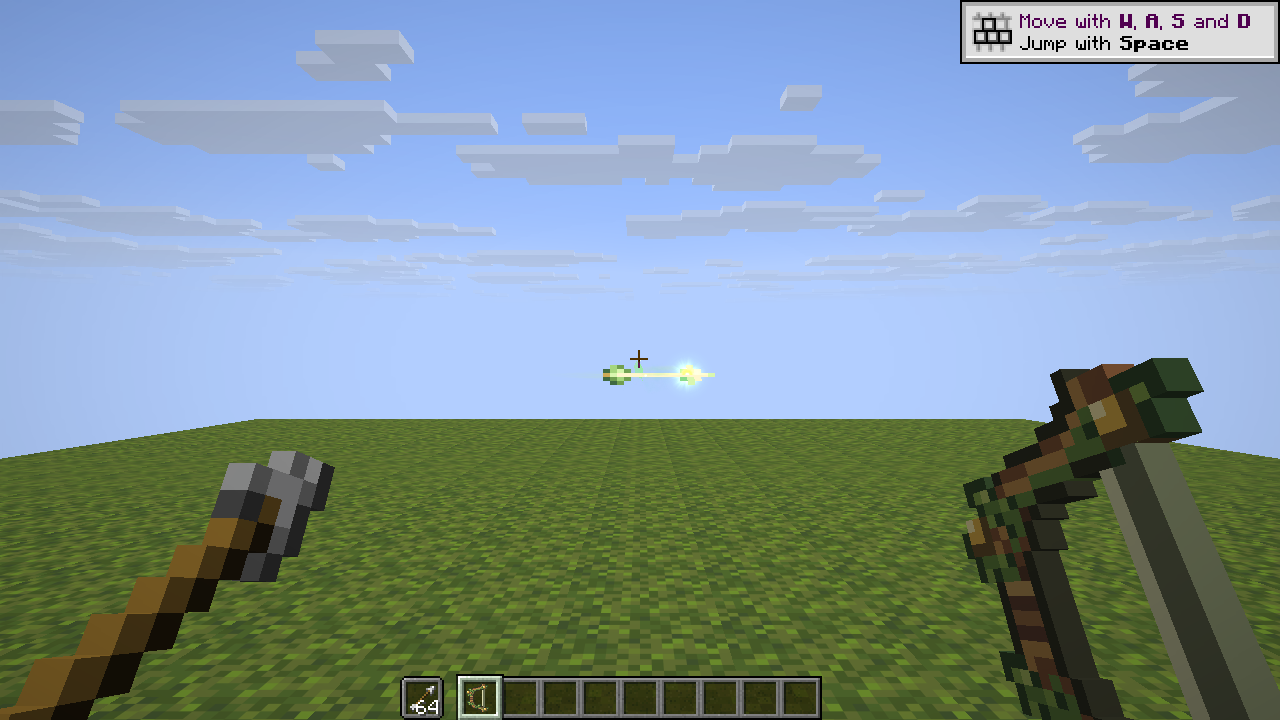
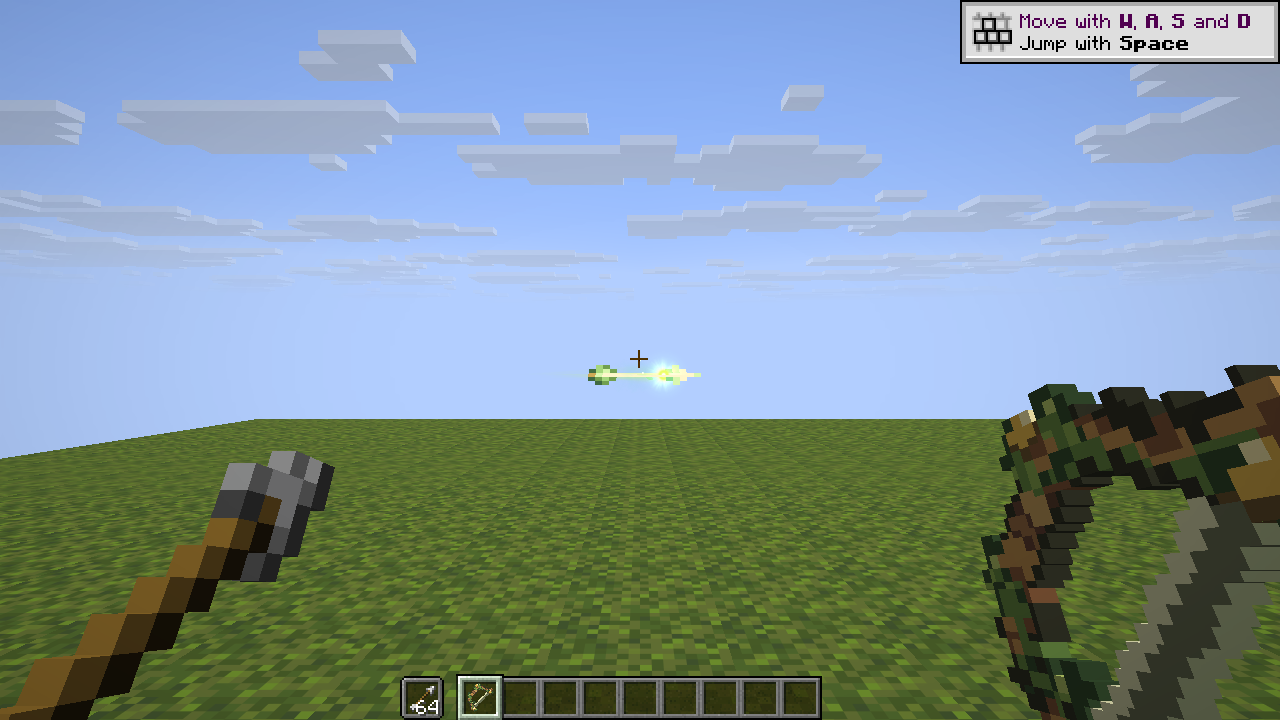
Fix Nature's Force bow alignment and charged arrow visuals
按试玩反馈延长弓臂并对齐原版持弓方向；前三阶保留对应箭的原版外观，仅第四阶换为自然之力纹理。第四阶禁用原版暴击飞行粒子，保留生命元素拖尾与既有伤害。已通过69项单元、10项世界、左右手16项实际客户端检查，并更新实机截图。

Changed region(s): [[0.75, 0.4889, 1.0, 1.0], [0.4375, 0.4889, 0.5625, 0.55], [0.3438, 0.9472, 0.4062, 0.9778]]

diff --git a/src/main/java/dev/logos/dimension/client/NaturesForceView.java b/src/main/java/dev/logos/dimension/client/NaturesForceView.java
@@ -19,8 +19,9 @@ import net.minecraft.world.phys.Vec3;
 
 /** 普通实际客户端：持弓、四阶蓄力贴图、同步箭纹理和 Logos 生命拖尾。 */
 @LDLRegisterClient(name = "natures_force", group = "natures_force", registry = UIScenario.REGISTRY, environment = RegistrationEnvironment.DEV_ONLY)
-public final class NaturesForceView implements UIScenario {
+public class NaturesForceView implements UIScenario {
     private int arrowId;
+    protected InteractionHand hand() { return InteractionHand.MAIN_HAND; }
     @Override public void configure(ScenarioOptions o) { o.tags("natures_force").defaultTimeoutMs(60000).scenarioTimeoutMs(180000); }
     @Override public void define(ScenarioBuilder s) {
         s.setGameMode(GameType.CREATIVE).runCommand("time set day").runCommand("difficulty peaceful")
@@ -37,23 +38,29 @@ public final class NaturesForceView implements UIScenario {
                         for (int y = 100; y < 108; y++) level.removeBlock(new BlockPos(x, y, z), false);
                     }
                     DimensionTravel.teleport(ctx.player(), level, new Vec3(.5, 100, 7), 180, 0);
-                    ctx.player().setItemInHand(InteractionHand.MAIN_HAND, new ItemStack(NaturesForceItem.ITEM.get()));
-                    ctx.player().setItemInHand(InteractionHand.OFF_HAND, new ItemStack(Items.ARROW, 64));
+                    ctx.player().setItemInHand(hand(), new ItemStack(NaturesForceItem.ITEM.get()));
+                    ctx.player().setItemInHand(hand() == InteractionHand.MAIN_HAND ? InteractionHand.OFF_HAND : InteractionHand.MAIN_HAND, new ItemStack(Items.ARROW, 64));
                 })
-                .waitUntil("弓到达客户端", ctx -> Minecraft.getInstance().player.getMainHandItem().is(NaturesForceItem.ITEM.get()))
+                .waitUntil("弓到达客户端", ctx -> Minecraft.getInstance().player.getItemInHand(hand()).is(NaturesForceItem.ITEM.get()))
+                .check("前三阶保留普通药水光灵箭纹理", ctx -> originalTextures())
+                .check("第四阶不用原版暴击粒子", ctx -> nativeParticles(3) == 4 && nativeParticles(4) == 0)
                 .ticks(40).screenshot("nature_bow_idle")
                 .step("实际右键拉弓", ctx -> {
-                    var mc = Minecraft.getInstance(); mc.options.keyUse.setDown(true); mc.gameMode.useItem(mc.player, InteractionHand.MAIN_HAND);
+                    var mc = Minecraft.getInstance(); mc.options.keyUse.setDown(true); mc.gameMode.useItem(mc.player, hand());
                 }).ticks(45)
                 .check("四阶模型属性", ctx -> {
                     var mc = Minecraft.getInstance();
-                    return new NatureChargeProperty().get(mc.player.getMainHandItem(), mc.level, mc.player, 0) == 4;
+                    return new NatureChargeProperty().get(mc.player.getItemInHand(hand()), mc.level, mc.player, 0) == 4;
                 }).screenshot("nature_bow_full_charge")
+                .step("观察第三人称持弓方向", ctx -> Minecraft.getInstance().options.setCameraType(net.minecraft.client.CameraType.THIRD_PERSON_FRONT))
+                .ticks(3).screenshot("nature_bow_third_person")
+                .step("恢复第一人称", ctx -> Minecraft.getInstance().options.setCameraType(net.minecraft.client.CameraType.FIRST_PERSON))
                 .step("释放真实弓箭", ctx -> { var mc = Minecraft.getInstance(); mc.options.keyUse.setDown(false); mc.gameMode.releaseUsingItem(mc.player); })
                 .server("布置近景箭与生命拖尾", ctx -> {
                     var p = ctx.player();
-                    var arrow = ((ArrowItem) Items.ARROW).createArrow(p.level(), new ItemStack(Items.ARROW), p, p.getMainHandItem());
+                    var arrow = ((ArrowItem) Items.ARROW).createArrow(p.level(), new ItemStack(Items.ARROW), p, p.getItemInHand(hand()));
                     ((NatureArrow) arrow).natureStage(4);
+                    arrow.setCritArrow(true);
                     arrow.setPos(-2, 101.5, 2);
                     arrow.setYRot(-90);
                     arrow.setDeltaMovement(.12, 0, 0);
@@ -79,6 +86,48 @@ public final class NaturesForceView implements UIScenario {
                 .screenshot("nature_arrow_life_trail")
                 .ticks(85)
                 .check("近景强化箭自然到期移除", ctx -> Minecraft.getInstance().level.getEntity(arrowId) == null)
-                .teardown("恢复界面", ctx -> { Minecraft.getInstance().options.hideGui = false; Minecraft.getInstance().options.keyUse.setDown(false); });
+                .teardown("恢复界面", ctx -> { Minecraft.getInstance().options.hideGui = false; Minecraft.getInstance().options.keyUse.setDown(false); Minecraft.getInstance().options.setCameraType(net.minecraft.client.CameraType.FIRST_PERSON); });
+    }
+
+    /** 直接观察一次客户端箭刻实际生成的原版粒子，确保暴击伤害标记与飞行粒子独立。 */
+    private static int nativeParticles(int stage) {
+        var mc = Minecraft.getInstance();
+        mc.particleEngine.clearParticles();
+        var arrow = ((ArrowItem) Items.ARROW).createArrow(mc.level, new ItemStack(Items.ARROW), mc.player, new ItemStack(NaturesForceItem.ITEM.get()));
+        ((NatureArrow) arrow).natureStage(stage);
+        arrow.setCritArrow(true); arrow.setDeltaMovement(0, 0, -.1);
+        arrow.tick();
+        try {
+            var field = net.minecraft.client.particle.ParticleEngine.class.getDeclaredField("particlesToAdd");
+            field.setAccessible(true);
+            return ((java.util.Queue<?>) field.get(mc.particleEngine)).size();
+        } catch (ReflectiveOperationException error) { throw new IllegalStateException("检查客户端箭粒子失败", error); }
+        finally { arrow.discard(); mc.particleEngine.clearParticles(); }
+    }
+
+    private static boolean originalTextures() {
+        var mc = Minecraft.getInstance();
+        for (var item : new net.minecraft.world.item.Item[]{Items.ARROW, Items.TIPPED_ARROW, Items.SPECTRAL_ARROW}) {
+            var ammo = new ItemStack(item);
+            if (item == Items.TIPPED_ARROW) ammo.set(net.minecraft.core.component.DataComponents.POTION_CONTENTS,
+                    new net.minecraft.world.item.alchemy.PotionContents(net.minecraft.world.item.alchemy.Potions.SLOWNESS));
+            var fallback = net.minecraft.resources.Identifier.withDefaultNamespace("textures/entity/projectiles/" +
+                    (item == Items.TIPPED_ARROW ? "arrow_tipped" : item == Items.SPECTRAL_ARROW ? "arrow_spectral" : "arrow") + ".png");
+            for (int stage = 1; stage <= 4; stage++) {
+                var arrow = ((ArrowItem) item).createArrow(mc.level, ammo, mc.player, new ItemStack(NaturesForceItem.ITEM.get()));
+                ((NatureArrow) arrow).natureStage(stage);
+                var renderer = mc.getEntityRenderDispatcher().getRenderer(arrow);
+                var state = (net.minecraft.client.renderer.entity.state.ArrowRenderState) renderer.createRenderState(arrow, 0);
+                boolean matches = NatureArrowRendering.texture(state, fallback).equals(stage == 4 ? NatureArrowRendering.TEXTURE : fallback);
+                arrow.discard();
+                if (!matches) return false;
+            }
+        }
+        return true;
+    }
+
+    @LDLRegisterClient(name = "natures_force_left", group = "natures_force", registry = UIScenario.REGISTRY, environment = RegistrationEnvironment.DEV_ONLY)
+    public static class Left extends NaturesForceView {
+        @Override protected InteractionHand hand() { return InteractionHand.OFF_HAND; }
     }
 }

diff --git a/tools/natures_force_resources.py b/tools/natures_force_resources.py
@@ -1,8 +1,10 @@
 """从用户提供的代码绘制素材包导入自然之力，生成四段蓄力物品定义。"""
 import argparse
+from io import BytesIO
 import json
 from pathlib import Path
 from zipfile import ZipFile
+from PIL import Image
 
 ROOT = Path(__file__).resolve().parent.parent
 ASSETS = ROOT / "src/main/resources/assets/logos_dimension"
@@ -15,8 +17,27 @@ def write(path, content):
 
 
 def model(stage):
-    """每个阶段使用同一握柄位置和原版弓显示变换。"""
+    """每个阶段使用同一握柄位置，贴图方向与原版弓显示变换对齐。"""
     return {"type": "minecraft:model", "model": f"logos_dimension:item/natures_force_{stage}"}
+
+
+def refine_bow_frames(pack):
+    """弓臂纵向延长四分之一，再统一转到原版弓的左上射向；五帧共用裁切框。"""
+    frames = []
+    for stage in range(5):
+        source = Image.open(BytesIO(pack.read(f"natures_force_32/natures_force_{stage}.png"))).convert("RGBA")
+        stretched = source.resize((32, 40), Image.Resampling.NEAREST)
+        canvas = Image.new("RGBA", (64, 64))
+        canvas.alpha_composite(stretched, (16, 12))
+        frames.append(canvas.rotate(-45, resample=Image.Resampling.NEAREST, expand=True))
+    bounds = [frame.getbbox() for frame in frames]
+    left, top = min(b[0] for b in bounds), min(b[1] for b in bounds)
+    right, bottom = max(b[2] for b in bounds), max(b[3] for b in bounds)
+    size = max(right - left, bottom - top) + 4
+    center_x, center_y = (left + right) / 2, (top + bottom) / 2
+    crop = (round(center_x - size / 2), round(center_y - size / 2),
+            round(center_x - size / 2) + size, round(center_y - size / 2) + size)
+    return [frame.crop(crop).resize((64, 64), Image.Resampling.NEAREST) for frame in frames]
 
 
 def main():
@@ -25,10 +46,10 @@ def main():
     parser.add_argument("--arrow", type=Path, required=True)
     args = parser.parse_args()
     with ZipFile(args.bow_pack) as pack:
-        for stage in range(5):
+        for stage, frame in enumerate(refine_bow_frames(pack)):
             image = ASSETS / f"textures/item/natures_force_{stage}.png"
             image.parent.mkdir(parents=True, exist_ok=True)
-            image.write_bytes(pack.read(f"natures_force_32/natures_force_{stage}.png"))
+            frame.save(image)
             write(ASSETS / f"models/item/natures_force_{stage}.json", {
                 "parent": "minecraft:item/bow", "textures": {"layer0": f"logos_dimension:item/natures_force_{stage}"}
             })

diff --git a/src/main/java/dev/logos/dimension/mixin/NatureArrowMixin.java b/src/main/java/dev/logos/dimension/mixin/NatureArrowMixin.java
@@ -15,6 +15,7 @@ import org.spongepowered.asm.mixin.Unique;
 import org.spongepowered.asm.mixin.injection.At;
 import org.spongepowered.asm.mixin.injection.Inject;
 import org.spongepowered.asm.mixin.injection.ModifyVariable;
+import org.spongepowered.asm.mixin.injection.Redirect;
 import org.spongepowered.asm.mixin.injection.callback.CallbackInfo;
 
 /** 在原版箭上附加小量状态，完整保留药水、光灵、附魔和碰撞逻辑。 */
@@ -38,6 +39,13 @@ public abstract class NatureArrowMixin implements NatureArrow {
 
     @ModifyVariable(method = "applyInertia", at = @At("HEAD"), argsOnly = true)
     private float natureInertia(float inertia) { return natureStage() == 4 ? 1 : inertia; }
+
+    // 第四阶仍可计算满弓暴击伤害，但飞行外观只使用 Logos 生命拖尾。
+    @Redirect(method = "tick", at = @At(value = "INVOKE",
+            target = "Lnet/minecraft/world/entity/projectile/arrow/AbstractArrow;isCritArrow()Z"))
+    private boolean natureCriticalParticles(AbstractArrow arrow) {
+        return natureStage() != 4 && arrow.isCritArrow();
+    }
 
     @Inject(method = "tick", at = @At("HEAD"), cancellable = true)
     private void natureExpiry(CallbackInfo ci) {

diff --git a/src/main/java/dev/logos/dimension/client/NatureArrowRendering.java b/src/main/java/dev/logos/dimension/client/NatureArrowRendering.java
@@ -20,9 +20,9 @@ public final class NatureArrowRendering {
 
     @SubscribeEvent static void register(RegisterRenderStateModifiersEvent event) {
         event.registerEntityModifier(TippableArrowRenderer.class,
-                (arrow, state) -> state.setRenderData(NATURE_ARROW, ((NatureArrow) arrow).natureStage() > 0));
+                (arrow, state) -> state.setRenderData(NATURE_ARROW, ((NatureArrow) arrow).natureStage() == 4));
         event.registerEntityModifier(SpectralArrowRenderer.class,
-                (arrow, state) -> state.setRenderData(NATURE_ARROW, ((NatureArrow) arrow).natureStage() > 0));
+                (arrow, state) -> state.setRenderData(NATURE_ARROW, ((NatureArrow) arrow).natureStage() == 4));
     }
 
     public static Identifier texture(ArrowRenderState state, Identifier fallback) {

diff --git a/VERIFICATION.md b/VERIFICATION.md
@@ -4,6 +4,14 @@
 
 ## 0.11.0 自然之力四段蓄力弓
 
+### 2026-10-26 手持朝向、弓臂与箭矢外观修订
+
+按实际试玩反馈，将五张弓贴图的弓臂纵向延长约 25%，统一转到原版弓的左上射向并输出 64×64，保持五帧握柄一致；沿用原版显示变换，修正第一人称箭身侧向的问题。前三阶恢复普通箭、药水箭、光灵箭各自的原版纹理；只有第四阶使用自然之力纹理。第四阶屏蔽原版暴击飞行粒子，保留暴击伤害和 Logos 生命弹体拖尾。
+
+同一 Logos 0.6.0 快照（`a86bb4d`）下复验：**69/69 单元、10/10 定向世界检查通过，构建通过；普通实际客户端左右手 2/2 场景、16/16 检查通过**。客户端实际观察一次箭刻产生的原版粒子数量：保持暴击标记时第三阶生成四颗，第四阶零颗；另外确认生命拖尾正常接收。普通/药水/光灵箭三种实体各检查四个阶段的最终纹理选择。人工查看左右手第一人称满弓及第三人称持弓截图，更新 `docs/screenshots/natures-force/`。此次仍未运行第三方光影。
+
+### 首次实现验证
+
 2026-10-26：在独立分支 `codex/natures-force-bow` 添加 `logos_dimension:natures_force`，玩法见 [自然之力](docs/NATURES_FORCE.md)。前两阶免魔力，第三阶消耗 5 点并等同原版满弓，第四阶合计消耗 10 点，8 格/tick 直线飞行、额外 10 点 Logos 生命属性基础伤害。魔力不足降至第二阶，不扣残余魔力。
 
 最终运行环境为 **Logos 0.6.0，上游 main `a86bb4d1ed7aadbe0c9beb16f8fc1935cae982c2` 的源码快照构建**。快照仅下载、编译到本附属被忽略的 `build/`，没有修改本地主模组仓库，也没有将其源码或 JAR 纳入提交。早期使用本地 0.5.1 检查基本射击与客户端；下表为最终 0.6.0 结果。

diff --git a/docs/NATURES_FORCE.md b/docs/NATURES_FORCE.md
@@ -10,7 +10,7 @@
 
 ## 蓄力与消耗
 
-待机外观加四张蓄力贴图，沿用用户提供的 `natures_force_32_pack.zip`；握柄位置不变。
+待机外观加四张蓄力贴图，以用户提供的 `natures_force_32_pack.zip` 为基础，由代码将弓臂纵向延长约 25%，统一转到原版弓的射向并输出 64×64 贴图。五帧共用裁切框，保持握柄位置一致。
 
 | 阶段 | 使用时长 | 射击行为 | 每发魔力 |
 | --- | --- | --- | --- |
@@ -41,8 +41,8 @@
 
 ## 渲染与主模组边界
 
-- 使用原版普通/药水/光灵箭实体与几何，仅为自然之力标记的箭换用用户指定的 32×32 纹理。
-- 第四阶调用 Logos 的生命弹体拖尾，并在命中、停下或到期后结束；不创建或清空主模组的 VFX 收集器。
+- 使用原版普通/药水/光灵箭实体与几何；前三阶保留各自原版纹理，只有第四阶换用用户指定的 32×32 纹理。
+- 第四阶调用 Logos 的生命弹体拖尾，并在命中、停下或到期后结束；屏蔽第四阶的原版暴击飞行粒子，保留满弓暴击伤害。第三阶仍沿用原版满弓效果。不创建或清空主模组的 VFX 收集器。
 - 使用 NeoForge 同步附件标记箭和蓄力档位，不向原版实体追加同步数据编号。
 - Logos 保持独立运行期依赖，不内嵌主模组类或 JAR。反射接口集中在 `LogosNatureBridge`。
 - 弓与箭素材均来自用户提供的代码绘制素材，没有使用图像生成服务。
